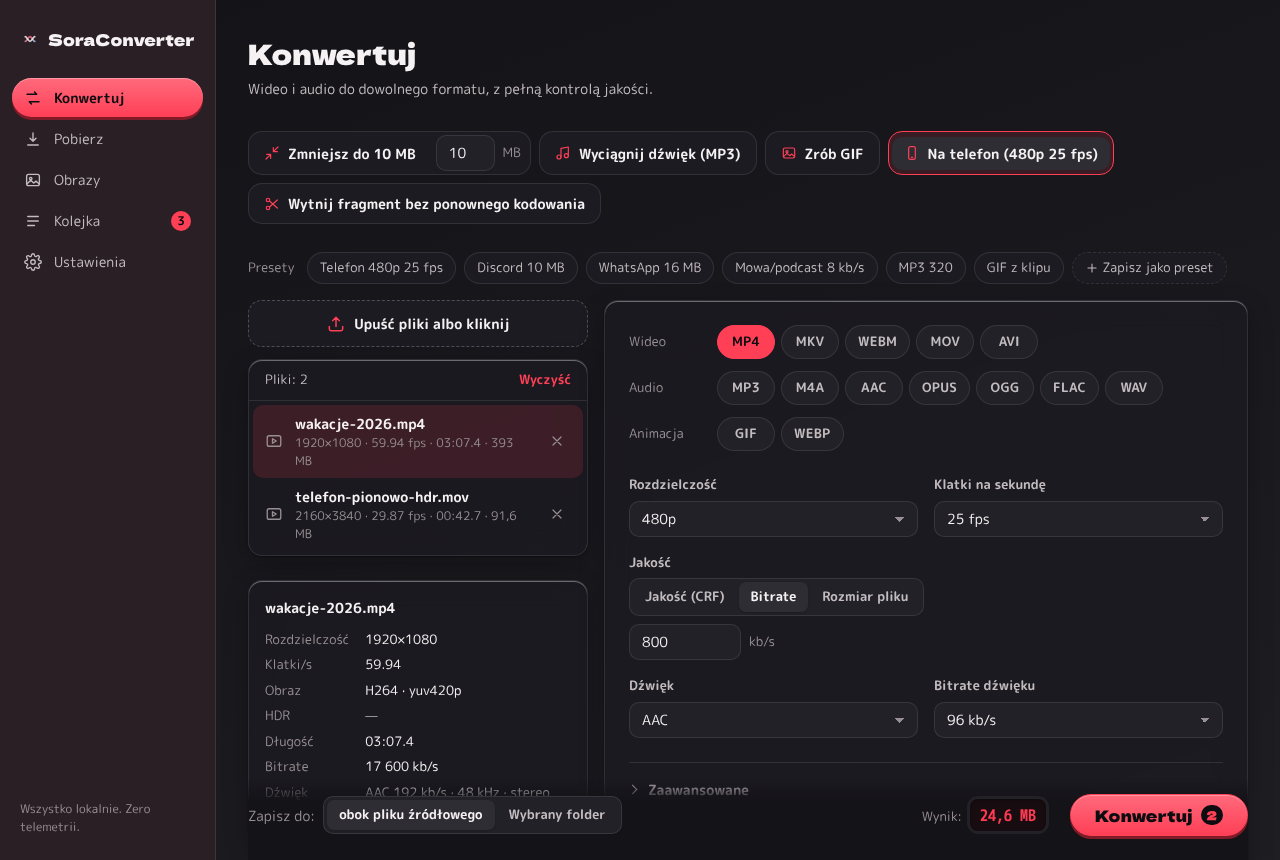
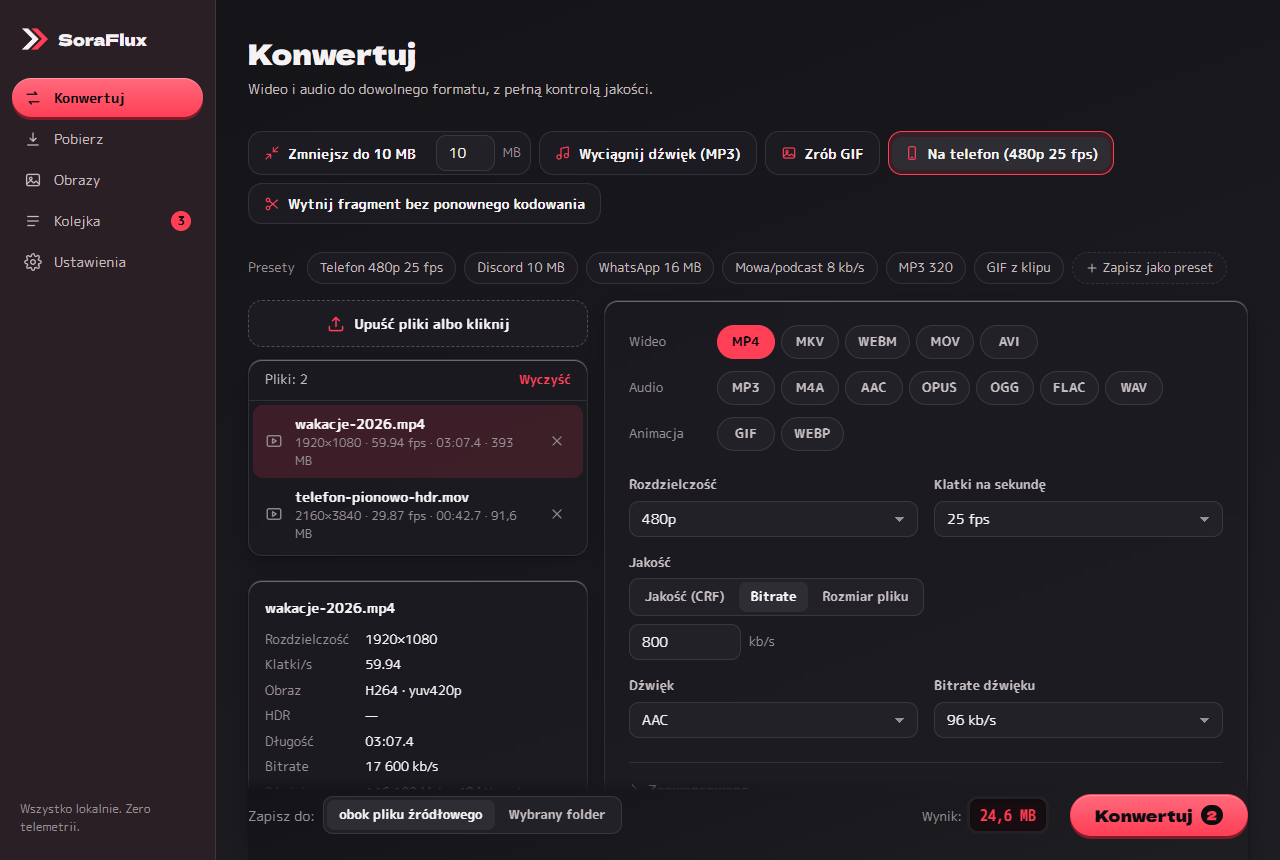
MiniDisc themes: action bar background matches the content area
In the "c" (MiniDisc) variant the content area has a gradient background,
while the sticky action bar added in 1.2.2 used the flat --tlo color, so it
showed up as a darker (or, in light mode, lighter) rectangle. Both now use
the same viewport-fixed gradient; the fade at the top of the bar is a mask.

diff --git a/src/style.css b/src/style.css
@@ -502,7 +502,10 @@ h1, h2, h3, p { margin: 0; }
 [data-wariant="b"] .pasek, [data-wariant="b"] .pasek-maly { height: 8px; }
 
 /* C · Heisei MiniDisc: perłowe tło, półprzezroczysty plastik, LCD z ramką */
-[data-wariant="c"] .tresc { background: linear-gradient(160deg, var(--tlo), color-mix(in oklab, var(--tlo), var(--tekst) 6%)); }
+/* Gradient przypięty do okna (fixed) i ten sam pod paskiem akcji: inaczej pasek z płaskim --tlo
+   odcinał się ciemniejszym prostokątem (zgłoszenie 08.10, 1.2.2). Przejście u góry paska maską. */
+[data-wariant="c"] .tresc, [data-wariant="c"] .pasek-akcji { background: linear-gradient(160deg, var(--tlo), color-mix(in oklab, var(--tlo), var(--tekst) 6%)) fixed; }
+[data-wariant="c"] .pasek-akcji { mask-image: linear-gradient(to bottom, transparent, #000 var(--odstep-3)); }
 [data-wariant="c"] .karta, [data-wariant="c"] .pliki { background: color-mix(in oklab, var(--powierzchnia) 72%, transparent); backdrop-filter: blur(14px); box-shadow: inset 0 1px 0 rgba(255, 255, 255, 0.35), var(--cien); }
 [data-wariant="c"] .nawigacja { background: color-mix(in oklab, var(--akcent) 7%, var(--powierzchnia)); }
 [data-wariant="c"] .nawigacja-przycisk.aktywny, [data-wariant="c"] .przycisk-glowny { background: linear-gradient(180deg, var(--akcent-ciemny), var(--akcent)); box-shadow: inset 0 1px 0 rgba(255, 255, 255, 0.3), 0 3px 0 color-mix(in oklab, var(--akcent), #000 40%); }
